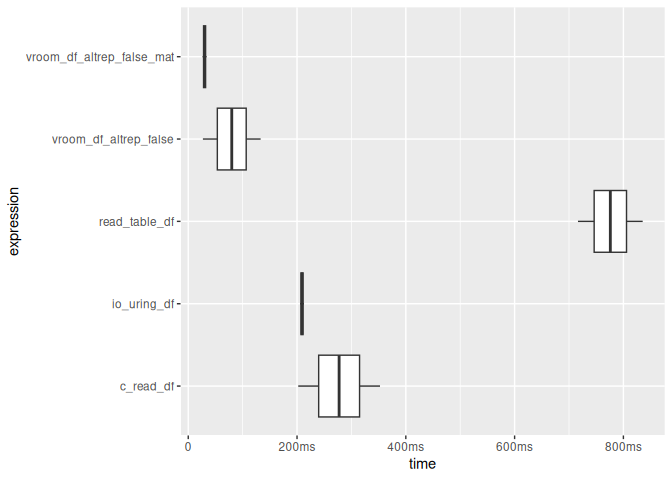
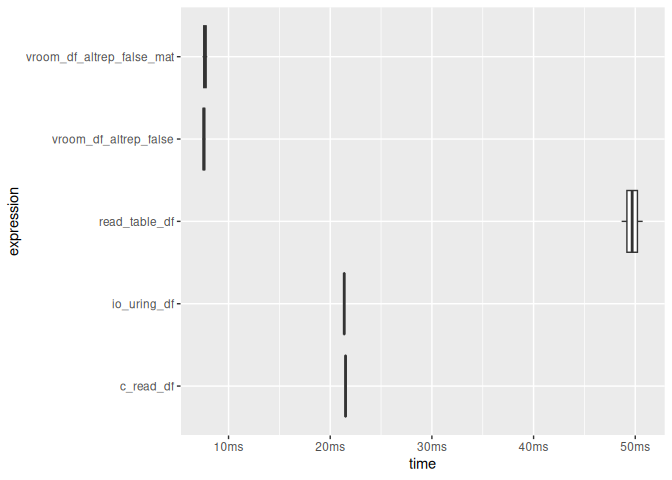
tcc_quick

diff --git a/README.md b/README.md
@@ -177,7 +177,7 @@ tcc_read_cstring(ptr)
 tcc_read_bytes(ptr, 5)
 #> [1] 68 65 6c 6c 6f
 tcc_ptr_addr(ptr, hex = TRUE)
-#> [1] "0x577f797bd150"
+#> [1] "0x5a8826701600"
 tcc_ptr_is_null(ptr)
 #> [1] FALSE
 tcc_free(ptr)
@@ -208,11 +208,11 @@ through output parameters.
 ptr_ref <- tcc_malloc(.Machine$sizeof.pointer %||% 8L)
 target <- tcc_malloc(8)
 tcc_ptr_set(ptr_ref, target)
-#> <pointer: 0x577f795068c0>
+#> <pointer: 0x5a882884eaf0>
 tcc_data_ptr(ptr_ref)
-#> <pointer: 0x577f7bde72a0>
+#> <pointer: 0x5a8827a72ca0>
 tcc_ptr_set(ptr_ref, tcc_null_ptr())
-#> <pointer: 0x577f795068c0>
+#> <pointer: 0x5a882884eaf0>
 tcc_free(target)
 #> NULL
 tcc_free(ptr_ref)
@@ -275,8 +275,8 @@ bench::mark(
 #> # A tibble: 2 × 6
 #>   expression      min   median `itr/sec` mem_alloc `gc/sec`
 #>   <bch:expr> <bch:tm> <bch:tm>     <dbl> <bch:byt>    <dbl>
-#> 1 Rtinycc       901ms    901ms      1.11   134.1MB    11.1 
-#> 2 Rbuiltin      532µs    568µs   1198.      9.05KB     6.20
+#> 1 Rtinycc       931ms    931ms      1.07   134.1MB    10.7 
+#> 2 Rbuiltin      548µs    587µs   1160.      9.05KB     6.00
 
 # For performance-sensitive code, move the loop into C and operate on arrays.
 ffi_vec <- tcc_ffi() |>
@@ -305,8 +305,8 @@ bench::mark(
 #> # A tibble: 2 × 6
 #>   expression        min   median `itr/sec` mem_alloc `gc/sec`
 #>   <bch:expr>   <bch:tm> <bch:tm>     <dbl> <bch:byt>    <dbl>
-#> 1 Rtinycc_vec    96.5µs  103.9µs     9561.    52.8KB     6.16
-#> 2 Rbuiltin_vec   16.9µs   18.4µs    51533.    78.2KB    41.3
+#> 1 Rtinycc_vec    97.7µs  105.7µs     9360.    52.8KB     6.17
+#> 2 Rbuiltin_vec   16.9µs   17.7µs    54131.    78.2KB    43.3
 ```
 
 ### Variadic calls (e.g. `Rprintf` style)
@@ -428,7 +428,7 @@ ffi <- tcc_ffi() |>
 
 x <- as.integer(1:100) # to avoid ALTREP
 .Internal(inspect(x))
-#> @577f90050e58 13 INTSXP g0c0 [REF(65535)]  1 : 100 (compact)
+#> @5a883d44a788 13 INTSXP g0c0 [REF(65535)]  1 : 100 (compact)
 ffi$sum_array(x, length(x))
 #> [1] 5050
 
@@ -444,7 +444,7 @@ y[1]
 #> [1] 11
 
 .Internal(inspect(x))
-#> @577f90050e58 13 INTSXP g0c0 [REF(65535)]  11 : 110 (expanded)
+#> @5a883d44a788 13 INTSXP g0c0 [REF(65535)]  11 : 110 (expanded)
 ```
 
 ### Benchmark
@@ -510,14 +510,16 @@ timings <- bench::mark(
   Rtinycc_manual_c = ffi_conv$convolve(a, na, b, nb, nab),
   min_time = 2
 )
-timings
-#> # A tibble: 4 × 6
-#>   expression            min   median `itr/sec` mem_alloc `gc/sec`
-#>   <bch:expr>       <bch:tm> <bch:tm>     <dbl> <bch:byt>    <dbl>
-#> 1 R                597.58ms 598.18ms      1.67     782KB     0   
-#> 2 quickr             3.72ms   4.08ms    245.       782KB     2.03
-#> 3 Rtinycc_quick    125.46ms 125.62ms      7.95     796KB     0   
-#> 4 Rtinycc_manual_c  56.96ms  57.61ms     17.2      796KB     0
+print(timings)
+#> # A tibble: 4 × 13
+#>   expression            min   median `itr/sec` mem_alloc `gc/sec` n_itr  n_gc
+#>   <bch:expr>       <bch:tm> <bch:tm>     <dbl> <bch:byt>    <dbl> <int> <dbl>
+#> 1 R                601.59ms  603.6ms      1.66     782KB     0        4     0
+#> 2 quickr             3.74ms    4.2ms    239.       782KB     2.02   472     4
+#> 3 Rtinycc_quick    125.49ms  125.8ms      7.94     796KB     0       16     0
+#> 4 Rtinycc_manual_c  56.92ms   59.6ms     16.9      796KB     0       34     0
+#> # ℹ 5 more variables: total_time <bch:tm>, result <list>, memory <list>,
+#> #   time <list>, gc <list>
 plot(timings, type = "boxplot") + bench::scale_x_bench_time(base = NULL)
 ```
 
@@ -545,15 +547,15 @@ ffi <- tcc_ffi() |>
 
 p1 <- ffi$struct_point_new()
 ffi$struct_point_set_x(p1, 0.0)
-#> <pointer: 0x577f93616ef0>
+#> <pointer: 0x5a8833ce57b0>
 ffi$struct_point_set_y(p1, 0.0)
-#> <pointer: 0x577f93616ef0>
+#> <pointer: 0x5a8833ce57b0>
 
 p2 <- ffi$struct_point_new()
 ffi$struct_point_set_x(p2, 3.0)
-#> <pointer: 0x577f87145990>
+#> <pointer: 0x5a883f785360>
 ffi$struct_point_set_y(p2, 4.0)
-#> <pointer: 0x577f87145990>
+#> <pointer: 0x5a883f785360>
 
 ffi$distance(p1, p2)
 #> [1] 5
@@ -598,9 +600,9 @@ ffi <- tcc_ffi() |>
 
 s <- ffi$struct_flags_new()
 ffi$struct_flags_set_active(s, 1L)
-#> <pointer: 0x577f917b4090>
+#> <pointer: 0x5a883ff558c0>
 ffi$struct_flags_set_level(s, 9L)
-#> <pointer: 0x577f917b4090>
+#> <pointer: 0x5a883ff558c0>
 ffi$struct_flags_get_active(s)
 #> [1] 1
 ffi$struct_flags_get_level(s)
@@ -892,7 +894,7 @@ ffi <- tcc_ffi() |>
   tcc_compile()
 
 ffi$struct_point_new()
-#> <pointer: 0x577f96821790>
+#> <pointer: 0x5a88434cfa80>
 ffi$enum_status_OK()
 #> [1] 0
 ffi$global_global_counter_get()
@@ -908,7 +910,7 @@ on linux
 if (Sys.info()[["sysname"]] == "Linux") {
   c_file <- system.file("c_examples", "io_uring_csv.c", package = "Rtinycc")
 
-  n_rows <- 200000L
+  n_rows <- 20000L
   n_cols <- 8L
   block_size <- 1024L * 1024L
 
@@ -1004,17 +1006,15 @@ if (Sys.info()[["sysname"]] == "Linux") {
   
   plot(timings, type = "boxplot") + bench::scale_x_bench_time(base = NULL)
 }
-#> CSV size: 27.47 MB
-#> Warning: Some expressions had a GC in every iteration; so filtering is
-#> disabled.
+#> CSV size: 2.75 MB
 #> # A tibble: 5 × 13
-#>   expression      min median `itr/sec` mem_alloc `gc/sec` n_itr  n_gc total_time
-#>   <bch:expr>  <bch:t> <bch:>     <dbl> <bch:byt>    <dbl> <int> <dbl>   <bch:tm>
-#> 1 read_table… 716.5ms  776ms      1.29    55.6MB     1.29     2     2      1.55s
-#> 2 vroom_df_a…  26.9ms   80ms     12.5     12.2MB     6.25     2     1   160.03ms
-#> 3 vroom_df_a…  26.3ms   30ms     33.3     12.2MB     0        2     0    60.05ms
-#> 4 c_read_df   202.2ms  277ms      3.61    12.2MB     1.80     2     1   554.73ms
-#> 5 io_uring_df 205.5ms  209ms      4.78    12.2MB     0        2     0   418.31ms
+#>   expression     min  median `itr/sec` mem_alloc `gc/sec` n_itr  n_gc total_time
+#>   <bch:expr> <bch:t> <bch:t>     <dbl> <bch:byt>    <dbl> <int> <dbl>   <bch:tm>
+#> 1 read_tabl… 48.66ms  49.7ms      20.1    6.33MB        0     2     0     99.4ms
+#> 2 vroom_df_…  7.44ms  7.58ms     132.     1.22MB        0     2     0     15.2ms
+#> 3 vroom_df_…  7.45ms  7.68ms     130.     1.22MB        0     2     0     15.4ms
+#> 4 c_read_df  21.51ms 21.51ms      46.5    1.23MB        0     2     0       43ms
+#> 5 io_uring_… 21.36ms 21.38ms      46.8    1.23MB        0     2     0     42.8ms
 #> # ℹ 4 more variables: result <list>, memory <list>, time <list>, gc <list>
 ```
 
@@ -1066,11 +1066,11 @@ ffi <- tcc_ffi() |>
 o <- ffi$struct_outer_new()
 i <- ffi$struct_inner_new()
 ffi$struct_inner_set_a(i, 42L)
-#> <pointer: 0x577f820c1f00>
+#> <pointer: 0x5a883ee1a8e0>
 
 # Write the inner pointer into the outer struct
 ffi$struct_outer_in_addr(o) |> tcc_ptr_set(i)
-#> <pointer: 0x577f9338dd90>
+#> <pointer: 0x5a882c38d980>
 
 # Read it back through indirection
 ffi$struct_outer_in_addr(o) |>
@@ -1099,9 +1099,9 @@ ffi <- tcc_ffi() |>
 
 b <- ffi$struct_buf_new()
 ffi$struct_buf_set_data_elt(b, 0L, 0xCAL)
-#> <pointer: 0x577f96b302a0>
+#> <pointer: 0x5a882fc01bf0>
 ffi$struct_buf_set_data_elt(b, 1L, 0xFEL)
-#> <pointer: 0x577f96b302a0>
+#> <pointer: 0x5a882fc01bf0>
 ffi$struct_buf_get_data_elt(b, 0L)
 #> [1] 202
 ffi$struct_buf_get_data_elt(b, 1L)

diff --git a/.github/copilot-instructions.md b/.github/copilot-instructions.md
@@ -302,6 +302,55 @@ Generated C should:
 5. Add caching and invalidation.
 6. Add docs/demo in README and tinytests for parity vs source R.
 
+### Current implementation progress (rjit branch snapshot)
+
+Status as of this branch:
+
+- `tcc_quick()` public API exists and is exported.
+- Declaration parsing is implemented in `R/tcc_quick_declare.R`.
+- Scalar lowering/codegen is implemented for arithmetic, comparisons, logical ops, `if`/`ifelse`, and selected unary math calls.
+- Boundary detection for `.Call`, `.C`, `.External`, `.Internal`, `.Primitive` is implemented.
+- Fallback policy is implemented for out-of-subset expressions, with `fallback = auto|always|never` behavior.
+- A generic nested-loop kernel path exists in `R/tcc_quick_lower.R` + `R/tcc_quick_codegen.R` and now supports dynamic loop depth (non-hardcoded loop nesting).
+- tinytests exist in `inst/tinytest/test_tcc_quick_basic.R`, including convolution parity.
+- README benchmark includes baseline R, `quickr`, `tcc_quick`, and manual C FFI convolution path.
+
+Remaining gaps vs long-term target:
+
+- Lowering is still partly pattern-driven for kernel forms; it is not yet a full statement-level compiler for arbitrary loop/branch combinations.
+- IR is still ad-hoc lists; no dedicated `tcc_quick_ir.R` typed node constructors/validators yet.
+- No bytecode-assisted debug lowering yet.
+- No centralized allowlist enforcement step for emitted R API symbols yet.
+
+### Codetools-style structural improvements (next refactor target)
+
+Use `.sync/codetools/R/codetools.R` and `.sync/codetools/noweb/codetools.nw` as architectural inspiration.
+
+Recommended refactor pattern:
+
+1. Build a generic walker factory (handler dispatch + call fallback + leaf handler), similar in spirit to codetools `walkCode`/`makeCodeWalker`.
+2. Split lowering into independent passes instead of monolithic pattern checks:
+	- declaration/scope collection,
+	- control-flow normalization,
+	- type+shape inference,
+	- boundary annotation,
+	- IR construction.
+3. Replace kernel-specific matching with statement handlers (`{`, `<-`, `for`, `while`, `repeat`, `if`, `ifelse`, `[`, `[<-`, calls).
+4. Represent loops in uniform IR (`for` with iterator metadata and body list), allowing arbitrary nesting depth without special cases.
+5. Add pass-local context objects (environment, loop stack, symbol table) instead of free-form recursion state.
+6. Add verifier pass before codegen (required fields, types, ownership, known symbol classes).
+7. Keep fallback edges explicit in IR (e.g. `tag = "fallback_eval"`) so codegen is straightforward and auditable.
+
+Suggested near-term file split:
+
+- `R/tcc_quick_walk.R` (generic walker + dispatcher)
+- `R/tcc_quick_normalize.R` (surface AST normalization)
+- `R/tcc_quick_typecheck.R` (typed annotations)
+- `R/tcc_quick_ir.R` (constructors/validators)
+- `R/tcc_quick_lower_stmt.R` (statement-level lowering)
+- `R/tcc_quick_lower_expr.R` (expression-level lowering)
+- `R/tcc_quick_codegen_*.R` split by IR families (scalar, loops, fallback)
+
 ### Test requirements
 
 Add tinytests for:
